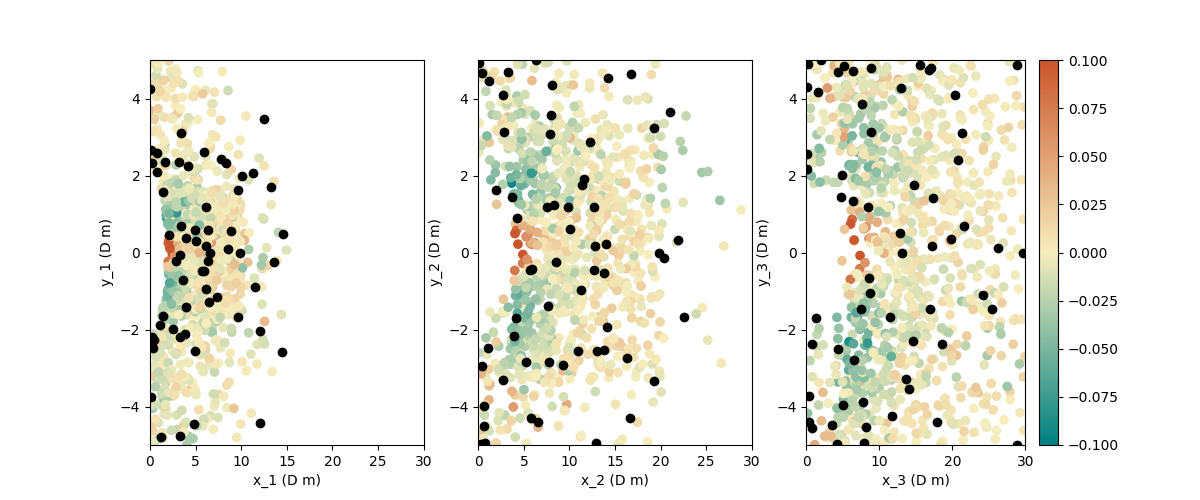
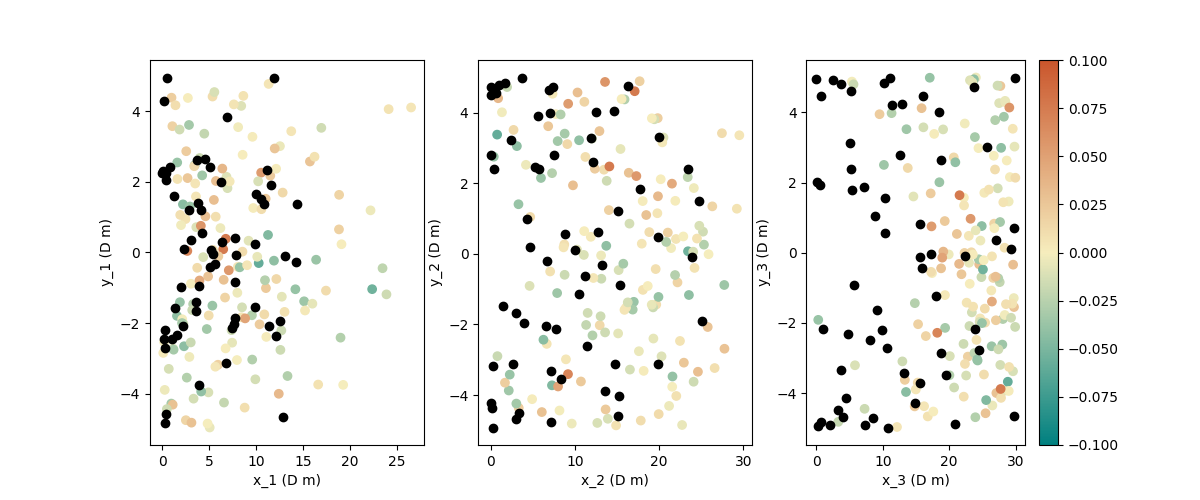
Add sequential design

diff --git a/analysis/sequential_design_diagnosis.py b/analysis/sequential_design_diagnosis.py
@@ -1,0 +1,91 @@
+import numpy as np
+import matplotlib.pyplot as plt
+from scipy.stats import norm, expon
+from sklearn.metrics import mean_squared_error, mean_absolute_error
+from palettable.cartocolors.diverging import Geyser_3
+import mogp_emulator
+import sys
+sys.path.append(r'/home/andrewkirby72/phd_work/data_synthesis')
+from sequential_design.experimentaldesign import validLCDesign
+from data_simulator.simulators import simulator6d_halved
+from GP_machine_learning.GP_machine_learning_functions import *
+
+validLHS = validLCDesign()
+n_init = 1
+n_samples = 60
+n_cand = 300
+md = mogp_emulator.MICEDesign(validLHS, simulator6d_halved, n_samples=n_samples, n_init=n_init, n_cand=n_cand)
+
+init_design = md.generate_initial_design()
+
+x = np.zeros((61,6))
+x[0, :] = init_design
+x[0,0] = expon(scale=10).ppf(x[0, 0])
+x[0,2] = expon(scale=10).ppf(x[0, 2])
+x[0,4] = expon(scale=10).ppf(x[0, 4])
+x[0,1] = norm(0, 2.5).ppf(x[0, 1])
+x[0,3] = norm(0, 2.5).ppf(x[0, 3])
+x[0,5] = norm(0, 2.5).ppf(x[0, 5])
+
+init_target = simulator6d_halved(x[0, :])
+md.set_initial_targets(init_target)
+
+for d in range(n_samples):
+    next_point = md.get_next_point()
+    x[d+1] = next_point
+    x[d+1,0] = expon(scale=10).ppf(x[d+1, 0])
+    x[d+1,2] = expon(scale=10).ppf(x[d+1, 2])
+    x[d+1,4] = expon(scale=10).ppf(x[d+1, 4])
+    x[d+1,1] = norm(0, 2.5).ppf(x[d+1, 1])
+    x[d+1,3] = norm(0, 2.5).ppf(x[d+1, 3])
+    x[d+1,5] = norm(0, 2.5).ppf(x[d+1, 5])
+    next_target = simulator6d_halved(x[d+1,:])
+    print(x[d+1, :])
+    print(next_target)
+    md.set_next_target(next_target)
+
+X_train = x
+inputs = md.get_inputs()
+targets = md.get_targets()
+
+gp_mice = mogp_emulator.GaussianProcess(inputs, targets)
+gp_mice = mogp_emulator.fit_GP_MAP(inputs, targets)
+
+X_test, X_test_tran, y_test = create_testing_points_transformed()
+
+y_predict = gp_mice(X_test_tran)
+mse = mean_squared_error(y_test, y_predict)
+mae = mean_absolute_error(y_test, y_predict)
+print('RMSE: ', np.sqrt(mse), ' MAE: ', mae)
+
+max_error = np.max(np.abs((y_predict - y_test)))
+
+fig = plt.figure(figsize=(12.0, 5.0))
+turbine1 = fig.add_subplot(1, 3, 1)
+turbine1.set_xlabel('x_1 (D m)')
+turbine1.set_ylabel('y_1 (D m)')
+turbine1.set_xlim([0, 30])
+turbine1.set_ylim([-5 ,5])
+turbine2 = fig.add_subplot(1, 3, 2)
+turbine2.set_xlabel('x_2 (D m)')
+turbine2.set_ylabel('y_2 (D m)')
+turbine2.set_xlim([0, 30])
+turbine2.set_ylim([-5 ,5])
+turbine3 = fig.add_subplot(1, 3, 3)
+turbine3.set_xlabel('x_3 (D m)')
+turbine3.set_ylabel('y_3 (D m)')
+turbine3.set_xlim([0, 30])
+turbine3.set_ylim([-5 ,5])
+
+x = turbine1.scatter(X_test[:, 0], X_test[:, 1],
+                 c=(y_predict - y_test)/(y_test+0.88),cmap=Geyser_3.mpl_colormap, vmin=-0.1, vmax=0.1)
+turbine1.scatter(X_train[:, 0], X_train[:, 1], c='black')
+turbine2.scatter(X_test[:, 2], X_test[:, 3],
+                 c=(y_predict - y_test)/(y_test+0.88),cmap=Geyser_3.mpl_colormap, vmin=-0.1, vmax=0.1)
+turbine2.scatter(X_train[:, 2], X_train[:, 3], c='black')
+turbine3.scatter(X_test[:, 4], X_test[:, 5],
+                 c=(y_predict - y_test)/(y_test+0.88),cmap=Geyser_3.mpl_colormap, vmin=-0.1, vmax=0.1)
+turbine3.scatter(X_train[:, 4], X_train[:, 5], c='black')
+plt.colorbar(x)
+plt.savefig('analysis/sequential_design_plots/seq_design_transformed_max_change_halved.png')
+

diff --git a/sequential_design/experimentaldesign.py b/sequential_design/experimentaldesign.py
@@ -1,3 +1,74 @@
 """Module containing class to make latinhypercube design
 with valid 
 """
+from scipy.stats import norm, expon
+import numpy as np
+import sys
+from mogp_emulator.ExperimentalDesign import LatinHypercubeDesign
+sys.path.append(r'/home/andrewkirby72/phd_work/data_synthesis')
+from regular_array_sampling.functions import calculate_distance
+
+
+def validlhs():
+    from pyDOE import lhs as lhsd
+    n_samples = 0
+    while n_samples < 300:
+        lhs = lhsd(6, 3100)
+        #expand x, y coordinates to their real values
+        lhs[:, 0] = expon(scale=10).ppf(lhs[:, 0])
+        lhs[:, 1] = norm(0, 2.5).ppf(lhs[:, 1])
+        lhs[:, 2] = expon(scale=10).ppf(lhs[:, 2])
+        lhs[:, 3] = norm(0, 2.5).ppf(lhs[:, 3])
+        lhs[:, 4] = expon(scale=10).ppf(lhs[:, 4])
+        lhs[:, 5] = norm(0, 2.5).ppf(lhs[:, 5])
+        #exclude points where turbine 2 is closer than turbine 1
+        valid_1_2 = calculate_distance(lhs[:, 2],
+                                        lhs[:, 3]) \
+            - calculate_distance(lhs[:, 0], lhs[:, 1])
+        lhs = lhs[valid_1_2 > 0]
+        #exclude points where turbine 3 is closer than turbine 2
+        valid_2_3 = calculate_distance(lhs[:, 4],
+                                        lhs[:, 5]) \
+            - calculate_distance(lhs[:, 2], lhs[:, 3])
+        lhs = lhs[valid_2_3 > 0]
+        #exclude points where turbines are closer than 2D to origin
+        dist_1 = np.sqrt(lhs[:, 0]**2 + lhs[:, 1]**2)
+        lhs = lhs[dist_1 > 2]
+        dist_2 = np.sqrt(lhs[:, 2]**2 + lhs[:, 3]**2)
+        lhs = lhs[dist_2 > 2]
+        dist_3 = np.sqrt(lhs[:, 4]**2 + lhs[:, 5]**2)
+        lhs = lhs[dist_3 > 2]
+        #exclude points where turbines are closer than 2D from
+        #each other
+        dist_1_2 = np.sqrt((lhs[:, 0]-lhs[:, 2])**2 + 
+                        (lhs[:, 1]-lhs[:, 3])**2)
+        lhs = lhs[dist_1_2 > 2]
+        dist_2_3 = np.sqrt((lhs[:, 2]-lhs[:, 4])**2 + 
+                        (lhs[:, 3]-lhs[:, 5])**2)
+        lhs = lhs[dist_2_3 > 2]
+        dist_3_1 = np.sqrt((lhs[:, 4]-lhs[:, 0])**2 + 
+                        (lhs[:, 5]-lhs[:, 1])**2)
+        lhs = lhs[dist_3_1 > 2]
+        n_samples = len(lhs)
+        print(n_samples)
+    #return to transformed coordinates
+    lhs[:, 0] = expon(scale=10).cdf(lhs[:, 0])
+    lhs[:, 1] = norm(0, 2.5).cdf(lhs[:, 1])
+    lhs[:, 2] = expon(scale=10).cdf(lhs[:, 2])
+    lhs[:, 3] = norm(0, 2.5).cdf(lhs[:, 3])
+    lhs[:, 4] = expon(scale=10).cdf(lhs[:, 4])
+    lhs[:, 5] = norm(0, 2.5).cdf(lhs[:, 5])
+    return lhs
+
+class validLCDesign(LatinHypercubeDesign):
+    def __init__(self):
+        LatinHypercubeDesign.__init__(self, 6)
+    
+    def _draw_samples(self, n_samples):
+        if n_samples == 1:
+            x1 = expon(scale=10).cdf(5)
+            x2 = expon(scale=10).cdf(10)
+            x3 = expon(scale=10).cdf(15)
+            return np.array([[x1,0.5,x2,0.5,x3,0.5]])
+        else:
+            return validlhs()

diff --git a/GP_machine_learning/GP_machine_learning_functions.py b/GP_machine_learning/GP_machine_learning_functions.py
@@ -250,7 +250,7 @@ def create_training_points_regular_maxi4d(n_target, noise_level):
     n_train = n_target
     return X_train_real, y_train, n_train
 
-def create_testing_points_transformed(noise_level):
+def create_testing_points_transformed():
     """ create array of testing points
     Discard any training points where turbines are
     not in the correct order and any training points where
@@ -298,7 +298,7 @@ def create_testing_points_transformed(noise_level):
     X_test_real = X_test_real[X_test_sig > 0]
     y_test = np.zeros(len(X_test_real))
     for i in range(len(X_test_real)):
-        y_test[i] = simulator6d_halved(X_test_real[i, :], noise_level)
+        y_test[i] = simulator6d_halved(X_test_real[i, :])
     X_test = X_test_real
     X_test_tran = np.zeros((len(X_test_real), 6))
     X_test_tran[:, 0] = expon(scale=10).cdf(X_test_real[:, 0])
@@ -369,7 +369,7 @@ def create_training_points_irregular_transformed(n_target, noise_level):
     X_train = X_train_real
     return X_train, X_train_tran, y_train, n_train
 
-def create_testing_points_regular_transformed(noise_level):
+def create_testing_points_regular_transformed():
     """ create array of testing points from regular
     wind turbine arrays
     Discard any training points where turbines are
@@ -394,7 +394,7 @@ def create_testing_points_regular_transformed(noise_level):
     X_test_real = regular_array_monte_carlo(1000)
     y_test = np.zeros(len(X_test_real))
     for i in range(len(X_test_real)):
-        y_test[i] = simulator6d_halved(X_test_real[i, :], noise_level)
+        y_test[i] = simulator6d_halved(X_test_real[i, :])
     X_test = X_test_real
     X_test_tran = np.zeros((1000, 6))
     X_test_tran[:, 0] = expon(scale=10).cdf(X_test_real[:, 0])

diff --git a/analysis/gp_diagnosis.py b/analysis/gp_diagnosis.py
@@ -18,7 +18,7 @@ noise = 0.01
 # create array of sampled regular array layouts
 cand_points = regular_array_monte_carlo(5000)
 # create testing points
-X_test, X_test_tran, y_test = create_testing_points_regular_transformed(noise)
+X_test, X_test_tran, y_test = create_testing_points_transformed(noise)
 
 n_target = 60
 
@@ -50,18 +50,18 @@ fig = plt.figure(figsize=(12.0, 5.0))
 turbine1 = fig.add_subplot(1, 3, 1)
 turbine1.set_xlabel('x_1 (D m)')
 turbine1.set_ylabel('y_1 (D m)')
-turbine1.set_xlim([0, 30])
-turbine1.set_ylim([-5 ,5])
+#turbine1.set_xlim([0, 30])
+#turbine1.set_ylim([-5 ,5])
 turbine2 = fig.add_subplot(1, 3, 2)
 turbine2.set_xlabel('x_2 (D m)')
 turbine2.set_ylabel('y_2 (D m)')
-turbine2.set_xlim([0, 30])
-turbine2.set_ylim([-5 ,5])
+#turbine2.set_xlim([0, 30])
+#turbine2.set_ylim([-5 ,5])
 turbine3 = fig.add_subplot(1, 3, 3)
 turbine3.set_xlabel('x_3 (D m)')
 turbine3.set_ylabel('y_3 (D m)')
-turbine3.set_xlim([0, 30])
-turbine3.set_ylim([-5 ,5])
+#turbine3.set_xlim([0, 30])
+#turbine3.set_ylim([-5 ,5])
 
 x = turbine1.scatter(X_test[:, 0], X_test[:, 1],
                  c=(y_predict - y_test)/(y_test+0.88),cmap=Geyser_3.mpl_colormap, vmin=-0.1, vmax=0.1)

diff --git a/analysis/seq_design_lhs.py b/analysis/seq_design_lhs.py
@@ -1,0 +1,31 @@
+import numpy as np
+import matplotlib.pyplot as plt
+import sys
+sys.path.append(r'/home/andrewkirby72/phd_work/data_synthesis')
+from sequential_design.experimentaldesign import validlhs
+
+lhs = validlhs()
+print(len(lhs))
+
+fig = plt.figure(figsize=(12.0, 5.0))
+turbine1 = fig.add_subplot(1, 3, 1)
+turbine1.set_xlabel('x_1 (D m)')
+turbine1.set_ylabel('y_1 (D m)')
+turbine1.set_xlim([0, 30])
+turbine1.set_ylim([-5 ,5])
+turbine2 = fig.add_subplot(1, 3, 2)
+turbine2.set_xlabel('x_2 (D m)')
+turbine2.set_ylabel('y_2 (D m)')
+turbine2.set_xlim([0, 30])
+turbine2.set_ylim([-5 ,5])
+turbine3 = fig.add_subplot(1, 3, 3)
+turbine3.set_xlabel('x_3 (D m)')
+turbine3.set_ylabel('y_3 (D m)')
+turbine3.set_xlim([0, 30])
+turbine3.set_ylim([-5 ,5])
+
+turbine1.scatter(lhs[:, 0], lhs[:, 1], c='black')
+turbine2.scatter(lhs[:, 2], lhs[:, 3], c='black')
+turbine3.scatter(lhs[:, 4], lhs[:, 5], c='black')
+
+plt.savefig('analysis/sequential_design_plots/cand_points.png')

diff --git a/data_simulator/simulators.py b/data_simulator/simulators.py
@@ -67,7 +67,7 @@ def simulator6d(x, noise_level):
         - 0.4*np.exp(-x[4]/10)*np.exp(-x[5]**2/(0.5+0.2*x[4])) \
         + np.random.normal(0, noise_level/1.96)
 
-def simulator6d_halved(x, noise_level):
+def simulator6d_halved(x):
     """ calculates CT* based on x1, y1, x2, y2,
     x3, y3
         Gaussian noise is added
@@ -90,4 +90,4 @@ def simulator6d_halved(x, noise_level):
         - 0.2*np.exp(-x[2]/10)*np.exp(-x[3]**2/(0.5+0.2*x[2])) \
         + 0.025*np.exp(-x[4]/10)*np.exp(-x[5]**2/(10+0.2*x[4])) \
         - 0.2*np.exp(-x[4]/10)*np.exp(-x[5]**2/(0.5+0.2*x[4])) \
-        + np.random.normal(0, noise_level/1.96)
+        + np.random.normal(0, 0.01/1.96)
